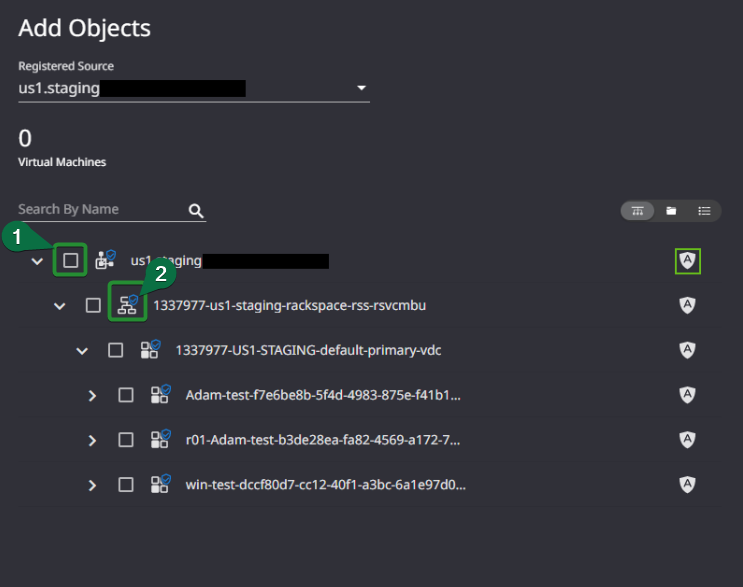
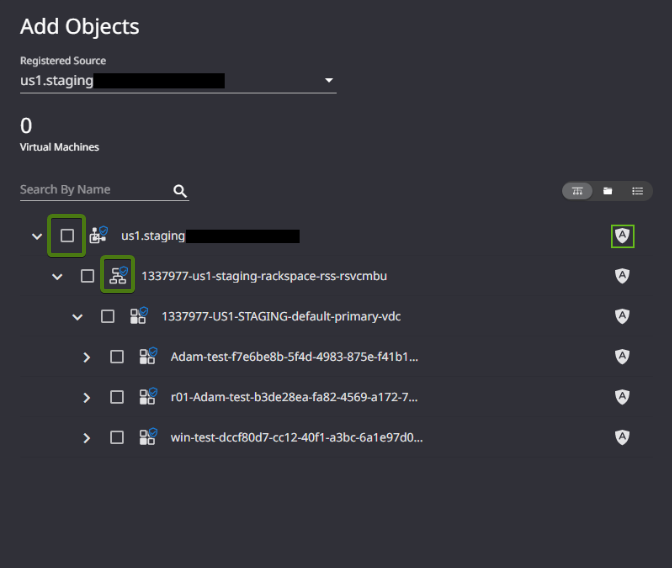
Comment updated

diff --git a/content/how-to/rackspace-data-protection/edit-vm-protection-group/index.md b/content/how-to/rackspace-data-protection/edit-vm-protection-group/index.md
@@ -45,15 +45,19 @@ product_url: rackspace-data-protection
 
    <img width="450" alt="Unable auto protect" src="/support/how-to/edit-vm-protection-group/edit_vm_protection6.png">
 
-      - All objects will now be shown as auto protected. To save changes to the selected objects, click the blue **Save Selection** button.
+      - All objects will now be shown as auto protected. 
 
    <img width="452" alt="All objects listed are auto protected" src="/support/how-to/edit-vm-protection-group/edit_vm_protection7.png">
 
+      - To save changes to the selected objects, click the blue **Save Selection** button.
+
    - To exclude a server from an auto protect group. 
 
-     - Check the name(s) of the VMs you want to disable. Click the blue auto protect shield to the left of those objects once those VMs have been identified. The shield will change to red to show that the object is no longer covered by automatic protection. To save changes to the selected objects, click the blue **Save Selection** button.
+     - Check the name(s) of the VMs you want to disable. Click the blue auto protect shield to the left of those objects once those VMs have been identified. The shield will change to red to show that the object is no longer covered by automatic protection.
 
    <img width="445" alt="Exclude server from auto protect group" src="/support/how-to/edit-vm-protection-group/edit_vm_protection8.png">
+
+      - To save changes to the selected objects, click the blue **Save Selection** button.
 
    - To add or remove servers to a job that manually defines objects.
 
@@ -68,14 +72,14 @@ product_url: rackspace-data-protection
 
    <img width="328" alt="Change name of the protection group" src="/support/how-to/edit-vm-protection-group/edit_vm_protection10.png">
 
-   - Policy
+   - Policy: 
      A backup policy can be changed by selecting a new policy from the dropdown menu. Note that changing a policy will only affect job runs from the time of the change forward. Retention will be unchanged for backups that ran prior to the policy change.
 
      Backup policies define backup retention as well as the frequency. If your protection group needs to use a backup policy that does not appear in your policy list, then contact support, and ask for a new custom policy to be created for your organization.
 
    <img width="328" alt="Change of policy backup" src="/support/how-to/edit-vm-protection-group/edit_vm_protection11.png">
 
-   - Start Time
+   - Start Time: 
      Backup start time can be defined for protection groups set to run daily jobs as shown in following image.
 
    <img width="328" alt="Setting of start time for protection groups" src="/support/how-to/edit-vm-protection-group/edit_vm_protection12.png">

diff --git a/content/how-to/rackspace-data-protection/create-vm-protection-group/index.md b/content/how-to/rackspace-data-protection/create-vm-protection-group/index.md
@@ -37,9 +37,9 @@ product_url: rackspace-data-protection
 
 7. In the Objects selection screen, you can define what objects are included in this protection group and how they are selected.
 
-   - Objects can be manually defined by checking the individual boxes (call out 1) to the left of each object.
+   - Objects can be manually defined by checking the individual boxes to the left of each object.
 
-   - Automatic protection can be added at various levels in the VMware hierarchy, indicated by the blue shield (call out 2) to the right of objects. If auto protect is defined, all objects at that level and below in the hierarchy will be automatically protected. This includes any objects created at those protected levels in the future. Individual objects can be excluded from Auto Protect to refine selection granularity. 
+   - Automatic protection can be added at various levels in the VMware hierarchy, indicated by the blue shield to the right of objects. If auto protect is defined, all objects at that level and below in the hierarchy will be automatically protected. This includes any objects created at those protected levels in the future. Individual objects can be excluded from Auto Protect to refine selection granularity. 
 
    <img width="372" alt="Displays the manual selection and automatic protection" src="/support/how-to/create-vm-protection-group/create_vm_protection6.png">
    
@@ -53,7 +53,7 @@ product_url: rackspace-data-protection
 
       <img width="298" alt="Display all objects are auto protected" src="/support/how-to/create-vm-protection-group/create_vm_protection8.png">
 
-      - You can then sort by VM listing or search for the VM name(s) (call out 1) that you wish to exclude. Once those VMs have been located, click the blue Auto Protect shield (call out 2) to the left of those object(s). The shield (call out 3) will turn red indicating the object is excluded from Auto Protection.
+      - You can then sort by VM listing or search for the VM name(s) that you wish to exclude. Once those VMs have been located, click the blue Auto Protect shield to the left of those object(s). The shield will turn red indicating the object is excluded from Auto Protection.
 
       <img width="307" alt="Display list of VM" src="/support/how-to/create-vm-protection-group/create_vm_protection9.png">
 

diff --git a/content/how-to/rackspace-data-protection/restore-files-folders/index.md b/content/how-to/rackspace-data-protection/restore-files-folders/index.md
@@ -29,11 +29,11 @@ product_url: rackspace-data-protection
 
     <img width="524" alt="Browse the server file by using radio button" src="/support/how-to/restore-files-folders/restore_files_folders3.png">
 
-       - The recovery point can be adjusted in the dropdown menu at the top right of the screen.
+    - The recovery point can be adjusted in the dropdown menu at the top right of the screen.
 
     <img width="523" alt="Adjust recovery point" src="/support/how-to/restore-files-folders/restore_files_folders4.png">
 
-       - File selection works like a shopping cart. If files are part of the same protection group and recovery point, they can be added to a single recovery job. Select the files that need to be recovered, then press **Save**.
+    - File selection works like a shopping cart. If files are part of the same protection group and recovery point, they can be added to a single recovery job. Select the files that need to be recovered, then press **Save**.
 
     <img width="486" alt="Select the files that needs to be recovered" src="/support/how-to/restore-files-folders/restore_files_folders5.png">
 
@@ -47,7 +47,7 @@ product_url: rackspace-data-protection
 
    <img width="336" alt="Select any of the radio button to set the restore parameters" src="/support/how-to/restore-files-folders/restore_files_folders7.png">
 
-       - To return to the previous screen and edit selections, press the edit pencil icon at the top right of the screen.
+      - To return to the previous screen and edit selections, press the edit pencil icon at the top right of the screen.
 
    <img width="373" alt="To edit the parameters click on edit icon" src="/support/how-to/restore-files-folders/restore_files_folders8.png">
 

diff --git a/content/how-to/rackspace-data-protection/data-protection-patching/index.md b/content/how-to/rackspace-data-protection/data-protection-patching/index.md
@@ -13,4 +13,4 @@ product_url: rackspace-data-protection
 
 # Rackspace Data Protection Patching
 
-In order to ensure the best quality of service, periodic patching of the Rackspace Data Protection infrastructure is required. However, patching does not require downtime and should be non-disruptive to normal backup and restore opportunities. During updates, nodes are taken down one at a time, with all operations failing over to other active nodes. Due to the higher potential of an unanticipated impact, Rackspace will inform customers of maintenance windows; changes, however, are projected to have no impact.
+In order to ensure the best quality of service, periodic patching of the Rackspace Data Protection infrastructure is required. Thankfully, patching does not require downtime and should be non-disruptive to normal backup and restore opportunities. During updates, nodes are taken down one at a time, with all operations failing over to other active nodes. Rackspace will notify users of maintenance windows due to the elevated risk for unanticipated impact, however updates are expected to be non-impacting.

diff --git a/content/how-to/rackspace-data-protection/restore-vm/index.md b/content/how-to/rackspace-data-protection/restore-vm/index.md
@@ -53,7 +53,7 @@ product_url: rackspace-data-protection
 
      None – Cohesity will make no changes to the original VM(s). This is the default behavior and the most common option. You can use the **Rename** option under Recovery options to ensure there are no name conflicts. VM recovery will fail if there is an existing VM with the same name. 
 
-     Overwrite Existing VM – Chose this option only if the original VMs should be overwritten. Exercise care choosing this option, as the original VM will be deleted. 
+     Overwrite Existing VM – Choose this option only if the original VMs should be overwritten. Exercise care choosing this option, as the original VM will be deleted. 
 
      Keep Existing VM – This option will power down and rename the original VM. This allows the recovered VM to be powered on right away and use the original VM name without creating a conflict.     
    

diff --git a/content/how-to/rackspace-data-protection/run-off-schedule-backup/index.md b/content/how-to/rackspace-data-protection/run-off-schedule-backup/index.md
@@ -17,7 +17,7 @@ product_url: rackspace-data-protection
 
    <img width="138" alt="Select Data Protection" src="/support/how-to/run-off-schedule-backup/run_off_schedule_backup1.png">
 
-3. The Protection screen will display your organization's Protection groups and gives you an overview of the latest job runs for each group.
+3. The Protection screen will display protection groups for your organization. Click the job that needs a manual job run. 
 
    <img width="952" alt="Displays the lists of protection groups" src="/support/how-to/run-off-schedule-backup/run_off_schedule_backup2.png">
 
